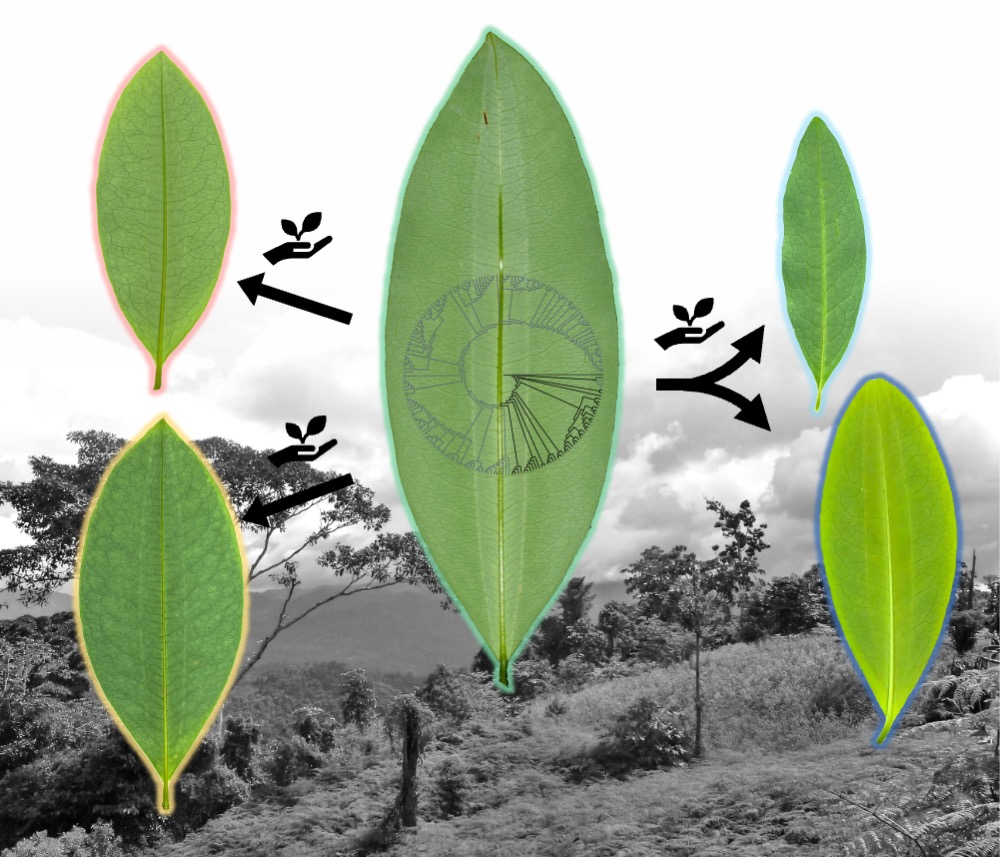
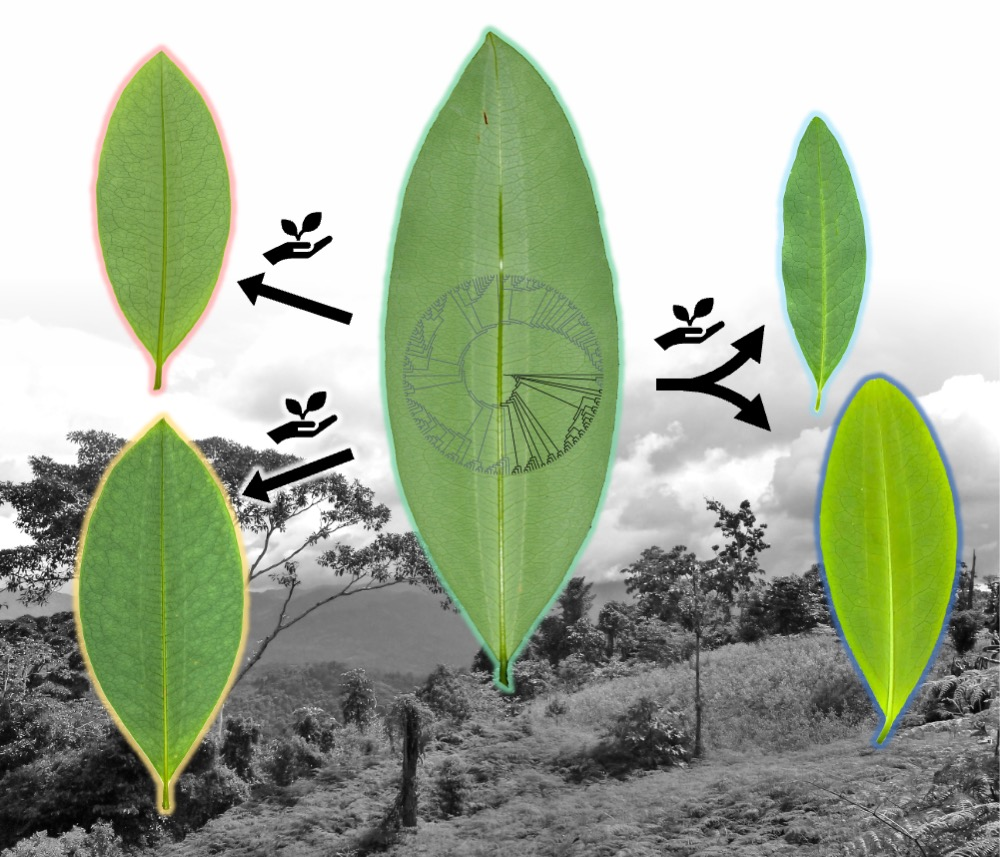
coca imag2 index quote

Changed region(s): [[0.217, 0.4551, 0.372, 0.6371]]

diff --git a/index.html b/index.html
@@ -23,7 +23,7 @@ extra_head: |
   </script>
 ---
 
-<blockquote class="pullquote">Collections-based botany in an era of global change</blockquote>
+<blockquote class="pullquote">Collections-based botany for understanding biodiversity change.</blockquote>
 
 <div class="subheader">
   PI: Dawson M. White ·
